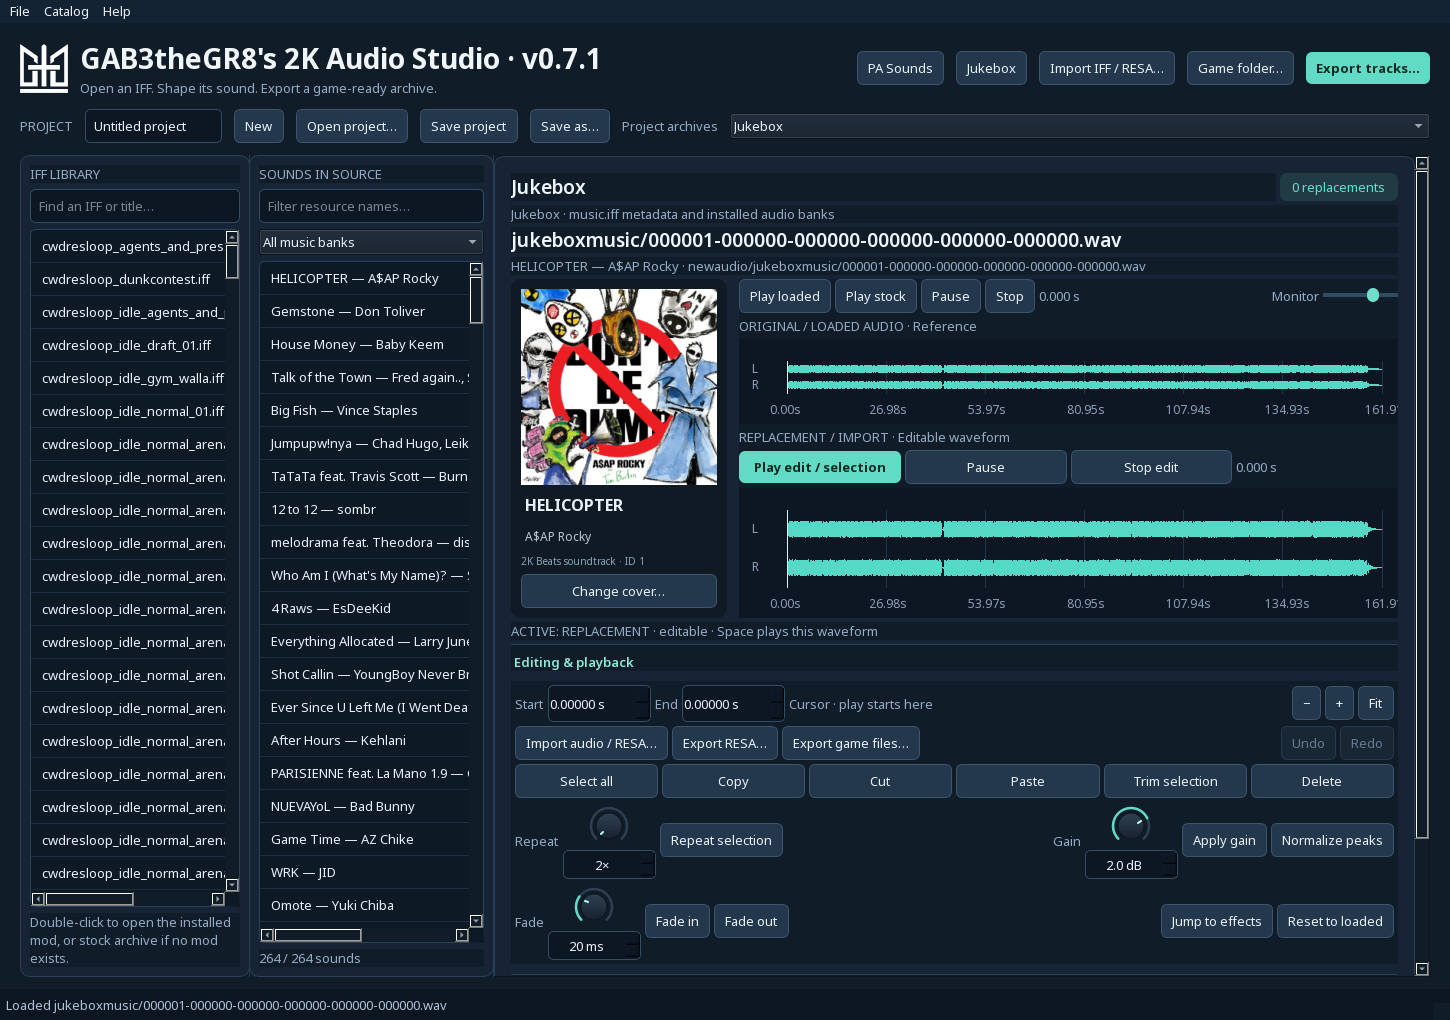
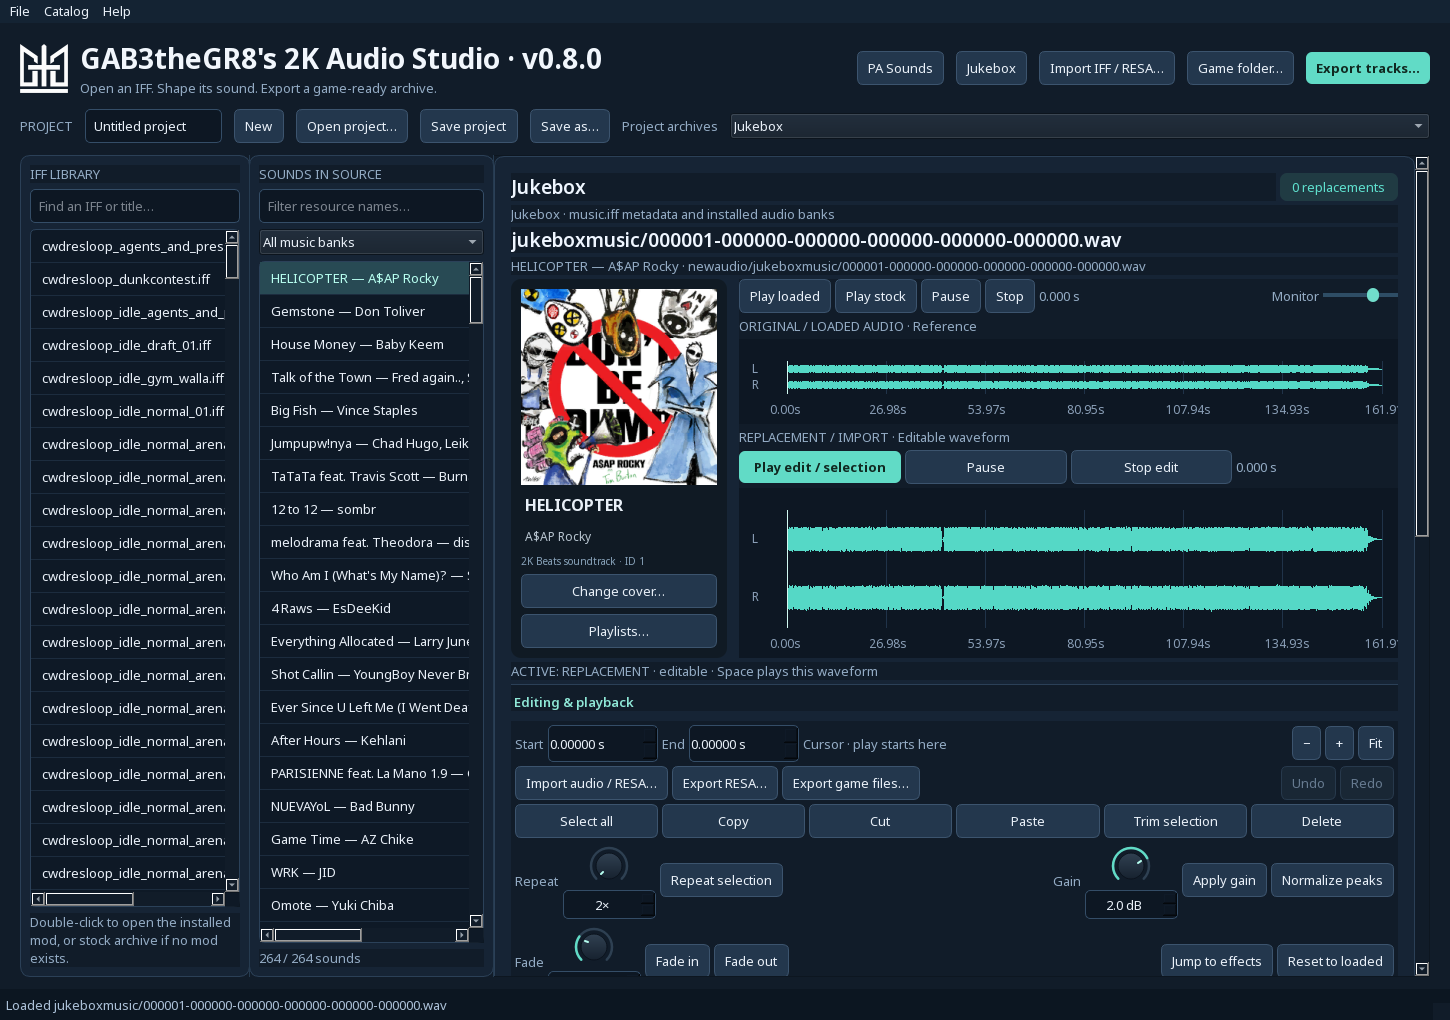
Publish Studio 0.8.0 soundtrack collection editor

Changed region(s): [[0.3414, 0.4863, 0.9621, 0.9725], [0.1552, 0.2431, 0.3414, 0.3039], [0.4034, 0.0304, 0.4345, 0.0608]]

diff --git a/index.html b/index.html
@@ -1,1 +1,1 @@
-<!doctype html><html lang="en"><head><meta charset="utf-8"><meta name="viewport" content="width=device-width,initial-scale=1"><title>2K Audio Studio — Windows audio editor</title><meta name="description" content="Open NBA 2K audio IFF files, audition original sounds, edit replacement waveforms and export a complete IFF."><style>*{box-sizing:border-box}html{color-scheme:dark}body{margin:0;background:#101b29;color:#edf5fc;font:17px/1.6 system-ui,sans-serif}main{max-width:1160px;margin:auto;padding:40px 26px 70px}nav{display:flex;gap:24px;align-items:center;margin-bottom:65px}a{color:#93e7d8}nav a{color:#b2c7dc;text-decoration:none;font-size:14px}.eyebrow{color:#68d9c4;letter-spacing:2px;font-size:12px;font-weight:700;text-transform:uppercase}h1{font-size:clamp(40px,6vw,70px);line-height:1.05;letter-spacing:-2px;margin:16px 0}h2{font-size:26px;line-height:1.2}p{color:#b8cbdc;max-width:760px}.lead{font-size:21px}.buttons{display:flex;gap:12px;flex-wrap:wrap;margin:28px 0 16px}.button{display:inline-block;background:#65dbc4;color:#0e2a23;text-decoration:none;padding:14px 22px;border-radius:8px;font-weight:750}.secondary{border:1px solid #43627d;background:#1d3348;color:#e8f4ff}.meta{font-size:13px;color:#96acc1}.preview{margin:45px 0 38px;border:1px solid #39536c;padding:8px;background:#182838;border-radius:15px;box-shadow:0 20px 65px #0005}.preview img{display:block;width:100%;height:auto;border-radius:9px}.grid{display:grid;grid-template-columns:repeat(3,1fr);gap:18px}.card{padding:24px;background:#17283a;border:1px solid #304a63;border-radius:12px}.card h2{font-size:20px;margin:0 0 9px}.card p{font-size:15px;margin:0}.workflow{margin-top:42px;max-width:860px}.workflow li{padding:6px 0;color:#c3d3e3}.note{margin-top:32px;padding:18px 22px;border-left:3px solid #65dbc4;background:#142638;font-size:15px}footer{border-top:1px solid #2e455d;margin-top:42px;padding-top:20px;font-size:13px;color:#9bb2c8}code{font-size:14px;color:#d3eee8}@media(max-width:760px){.grid{grid-template-columns:1fr}nav{margin-bottom:36px;flex-wrap:wrap}main{padding:26px 20px}.lead{font-size:18px}}</style></head><body><main><nav><a href="./">Studio</a><a href="https://github.com/GAB3theGR8/2K-Audio-Studio-Downloads/releases">Releases</a><a href="guide.txt">Guide</a></nav><img src="gtg-logo.png" alt="GTG" width="68" style="display:block;margin-bottom:20px"><div class="eyebrow">Windows desktop app · Preview v0.7.1</div><h1>GAB3theGR8’s<br>2K Audio Studio</h1><p class="lead">Hear the original. Shape the replacement.<br>Export an IFF or an individual RESA.</p><p>Open a 2K audio archive, import your own recording, and edit its waveform with trim, repeat, copy and paste. Keep multiple replacements together, then export the selected archive with its original filename.</p><div class="buttons"><a class="button" href="https://github.com/GAB3theGR8/2K-Audio-Studio-Downloads/releases/download/audio-studio-v0.7.1/GAB3theGR8.2K.Audio.Studio.v0.7.1.Setup.exe">Install for Windows</a><a class="button secondary" href="https://github.com/GAB3theGR8/2K-Audio-Studio-Downloads/releases/download/audio-studio-v0.7.1/GAB3theGR8.2K.Audio.Studio.v0.7.1.Windows.zip">Portable ZIP</a></div><p><strong>License key from Gabe required.</strong> Activation approves one Windows user on one computer. Connect for first activation; an approved installation can work offline for up to seven days. Audio stays on your PC.</p><div class="meta">Windows 10/11 · 64-bit · Per-user installer · No Python installation needed</div><div class="preview"><img src="preview.png" width="1450" height="1020" alt="Jukebox track card beside the original and replacement waveform transports"></div><div class="grid"><section class="card"><h2>See both waveforms</h2><p>See the original loaded waveform above your imported replacement. Normalize quiet and loud replacements to one shared −0.1 dBTP ceiling, independently of the loaded original. Edit below while keeping the original visible. Click either waveform to activate its cursor and selection. Space plays or pauses the active waveform; clicking another position during playback seeks. Each waveform also has independent transport controls.</p></section><section class="card"><h2>PA Sounds by team</h2><p>Browse 5,676 PA music clips by team, see recovered cue names and hashes, and export only edited native .wav files with their exact filenames.</p></section><section class="card"><h2>Export an IFF</h2><p>Save the complete archive, such as sfx_inside_001.iff, with your replacements and every untouched resource checked. Export RESA saves any selected sound from an IFF, PA library or standalone import. It includes current unapplied waveform edits, with the original filename suggested.</p></section></div><section class="workflow"><h2>Replace your Jukebox soundtrack</h2><p>Choose Jukebox to browse the main soundtrack and Park music from your installed game. See the selected track’s cover, title and artist beside both waveform transports. Import an MP3 to read its embedded tags and artwork, or edit those details yourself.</p><p>Export one or multiple tracks together. Every bundle includes the complete <code>music.iff</code>, preserving all other track records, audio in its exact <code>newaudio/jukeboxmusic/</code> or <code>newaudio/jukeboxmusic_park/</code> folder, and selected edited artwork at its original native path. Artwork exports need in-game confirmation. Stock recordings are read from your game and do not increase the download size.</p><p>For a single PA sound, <strong>Export game files</strong> writes <code>PA Export/newaudio/eventmusic/&lt;filename&gt;.wav</code>. Save Jukebox work in a project and reopen it with Studio 0.7.0 or later.</p></section><section class="workflow"><h2>Shape the room and speaker sound</h2><p>Scroll the right-hand editor to the EQ, room / space and dynamics sections beneath the waveforms for five-band EQ, room reverb, slap echo, stereo width, compression and speaker saturation. Drag teal knobs vertically and watch the live dry/processed waveform overlay update. Type exact values below each knob. Previewing leaves your audio unchanged until Apply. Start with indoor, outdoor, gym, arena, PA or distant-crowd presets. Compare dry and processed previews, then apply an undoable edit. Normalize to the shared peak ceiling is enabled by default.</p><div class="preview"><img src="effects.png" width="920" height="850" alt="Embedded teal rotary effects rack with five-band EQ, exact numeric values and live previews"></div></section><section class="workflow"><h2>One continuous editor</h2><p>Editing, EQ, reverb and dynamics are assembled beneath the waveforms. Scroll the right-hand panel to reach every section, with no effects tabs or separate effects window. Import standalone .RESA files or full IFF archives. Indexed menu sounds, including newbreakboard, retain rebuilt seek tables when edited. Older converter-made RESA sounds now receive a fresh native header on export, fixing the unsupported channel layout or codec error.</p><div class="preview"><img src="inline-effects.png" alt="A single scrolling editor containing waveform controls, EQ and reverb together"></div></section><section class="workflow"><h2>Updates built into Studio</h2><p>v0.7.1 fixes Windows access-denied errors caused by reusing an installer filename. Update downloads now use separate folders and retry temporary Windows file locks. If an older build is blocked, save and close Studio and run the installer above manually.</p><p>Studio checks for signed updates after launch and daily while open. Choose Update and restart when a new version is available. Save your project before restarting; activation and settings stay in place. You can also use Help → Check for updates, or disable background checks in the Updates menu. Users of earlier builds need to install this release once to move to the new public download host. Activation and saved projects carry over; future updates will use this location.</p><p>The PA catalog now has 533 additional team links: 2,721 recordings have candidate team associations, including 449 previously unassigned recordings. The complete library remains 5,676 native clips.</p></section><section class="workflow"><h2>From sound to game archive</h2><ol><li>Run the Windows installer once, then open <strong>GAB3theGR8’s 2K Audio Studio</strong> from your Start menu.</li><li>Choose <strong>Import IFF / RESA</strong> to open a standalone RESA sound or find audio inside a local archive, or set your game folder and double-click an archive in the library.</li><li>Select a sound and audition the loaded or stock version. For PA music, click <strong>PA Sounds</strong> and select a team.</li><li>Import a replacement, select a waveform section, and make your edits.</li><li>To export just the selected sound from any source, choose <strong>Export RESA</strong> beside the audio import button (or press <strong>Ctrl+Shift+E</strong>).</li><li>For IFFs, choose <strong>Apply to IFF</strong>, then <strong>Export IFF</strong>. For PA music, choose <strong>Apply PA sound</strong> and <strong>Export PA team</strong> to export only edited sounds into a team-named folder containing <code>newaudio/eventmusic/*.wav</code>.</li></ol><p>Use the visible <strong>New, Open project, Save project and Save as</strong> buttons to keep EuroLeague, NBA and other projects separate. Each <code>.2kaudio</code> project can hold multiple IFFs, pending replacements, the current unapplied waveform, selections, effect knobs and labels. Switch IFFs through <strong>Project archives</strong>. Older single-IFF projects remain readable. Existing catalog-label JSON files can be imported through the Catalog menu.</p></section><div class="note">All editing stays on your PC. PA .wav exports contain native 2K Opus data for game use; team associations are candidates and shared files may affect multiple teams. Exports use native Opus with no added one-second silence. Stock references require your installed NBA 2K27 files; mod-only variants may not have a stock counterpart. New exports still need an in-game test before installation.</div><footer><a href="https://github.com/GAB3theGR8/2K-Audio-Studio-Downloads/releases/tag/audio-studio-v0.7.1">Release files & checksums</a> · <a href="guide.txt">Full guide</a> · <a href="packaged-validation.json">Packaged-app checks</a> · <a href="workspace-validation.json">Waveform &amp; project checks</a></footer></main></body></html>
+<!doctype html><html lang="en"><head><meta charset="utf-8"><meta name="viewport" content="width=device-width,initial-scale=1"><title>2K Audio Studio — Windows audio editor</title><meta name="description" content="Open NBA 2K audio IFF files, audition original sounds, edit replacement waveforms and export a complete IFF."><style>*{box-sizing:border-box}html{color-scheme:dark}body{margin:0;background:#101b29;color:#edf5fc;font:17px/1.6 system-ui,sans-serif}main{max-width:1160px;margin:auto;padding:40px 26px 70px}nav{display:flex;gap:24px;align-items:center;margin-bottom:65px}a{color:#93e7d8}nav a{color:#b2c7dc;text-decoration:none;font-size:14px}.eyebrow{color:#68d9c4;letter-spacing:2px;font-size:12px;font-weight:700;text-transform:uppercase}h1{font-size:clamp(40px,6vw,70px);line-height:1.05;letter-spacing:-2px;margin:16px 0}h2{font-size:26px;line-height:1.2}p{color:#b8cbdc;max-width:760px}.lead{font-size:21px}.buttons{display:flex;gap:12px;flex-wrap:wrap;margin:28px 0 16px}.button{display:inline-block;background:#65dbc4;color:#0e2a23;text-decoration:none;padding:14px 22px;border-radius:8px;font-weight:750}.secondary{border:1px solid #43627d;background:#1d3348;color:#e8f4ff}.meta{font-size:13px;color:#96acc1}.preview{margin:45px 0 38px;border:1px solid #39536c;padding:8px;background:#182838;border-radius:15px;box-shadow:0 20px 65px #0005}.preview img{display:block;width:100%;height:auto;border-radius:9px}.grid{display:grid;grid-template-columns:repeat(3,1fr);gap:18px}.card{padding:24px;background:#17283a;border:1px solid #304a63;border-radius:12px}.card h2{font-size:20px;margin:0 0 9px}.card p{font-size:15px;margin:0}.workflow{margin-top:42px;max-width:860px}.workflow li{padding:6px 0;color:#c3d3e3}.note{margin-top:32px;padding:18px 22px;border-left:3px solid #65dbc4;background:#142638;font-size:15px}footer{border-top:1px solid #2e455d;margin-top:42px;padding-top:20px;font-size:13px;color:#9bb2c8}code{font-size:14px;color:#d3eee8}@media(max-width:760px){.grid{grid-template-columns:1fr}nav{margin-bottom:36px;flex-wrap:wrap}main{padding:26px 20px}.lead{font-size:18px}}</style></head><body><main><nav><a href="./">Studio</a><a href="https://github.com/GAB3theGR8/2K-Audio-Studio-Downloads/releases">Releases</a><a href="guide.txt">Guide</a></nav><img src="gtg-logo.png" alt="GTG" width="68" style="display:block;margin-bottom:20px"><div class="eyebrow">Windows desktop app · Preview v0.8.0</div><h1>GAB3theGR8’s<br>2K Audio Studio</h1><p class="lead">Hear the original. Shape the replacement.<br>Export an IFF or an individual RESA.</p><p>Open a 2K audio archive, import your own recording, and edit its waveform with trim, repeat, copy and paste. Keep multiple replacements together, then export the selected archive with its original filename.</p><div class="buttons"><a class="button" href="https://github.com/GAB3theGR8/2K-Audio-Studio-Downloads/releases/download/audio-studio-v0.8.0/GAB3theGR8.2K.Audio.Studio.v0.8.0.Setup.exe">Install for Windows</a><a class="button secondary" href="https://github.com/GAB3theGR8/2K-Audio-Studio-Downloads/releases/download/audio-studio-v0.8.0/GAB3theGR8.2K.Audio.Studio.v0.8.0.Windows.zip">Portable ZIP</a></div><p><strong>License key from Gabe required.</strong> Activation approves one Windows user on one computer. Connect for first activation; an approved installation can work offline for up to seven days. Audio stays on your PC.</p><div class="meta">Windows 10/11 · 64-bit · Per-user installer · No Python installation needed</div><div class="preview"><img src="preview.png" width="1450" height="1020" alt="Jukebox track card beside the original and replacement waveform transports"></div><div class="grid"><section class="card"><h2>See both waveforms</h2><p>See the original loaded waveform above your imported replacement. Normalize quiet and loud replacements to one shared −0.1 dBTP ceiling, independently of the loaded original. Edit below while keeping the original visible. Click either waveform to activate its cursor and selection. Space plays or pauses the active waveform; clicking another position during playback seeks. Each waveform also has independent transport controls.</p></section><section class="card"><h2>PA Sounds by team</h2><p>Browse 5,676 PA music clips by team, see recovered cue names and hashes, and export only edited native .wav files with their exact filenames.</p></section><section class="card"><h2>Export an IFF</h2><p>Save the complete archive, such as sfx_inside_001.iff, with your replacements and every untouched resource checked. Export RESA saves any selected sound from an IFF, PA library or standalone import. It includes current unapplied waveform edits, with the original filename suggested.</p></section></div><section class="workflow"><h2>Replace your Jukebox soundtrack</h2><p>Choose Jukebox to browse the main soundtrack and Park music from your installed game. See the selected track’s cover, title and artist beside both waveform transports. Import an MP3 to read its embedded tags and artwork, or edit those details yourself.</p><p>Export one or multiple tracks together. Every bundle includes the complete <code>music.iff</code>, preserving all other track records, audio in its exact <code>newaudio/jukeboxmusic/</code> or <code>newaudio/jukeboxmusic_park/</code> folder, and selected edited artwork at its original native path. Artwork exports need in-game confirmation. Stock recordings are read from your game and do not increase the download size.</p><p>For a single PA sound, <strong>Export game files</strong> writes <code>PA Export/newaudio/eventmusic/&lt;filename&gt;.wav</code>. Save Jukebox work in a project and reopen it with Studio 0.8.0 or later.</p></section><section class="workflow"><h2>Arrange soundtrack collections</h2><p>In Jukebox, click <strong>Playlists</strong> beneath the cover. See each collection’s song count, move existing songs between the two soundtrack collections, and move tracks up or down within a collection. Audio IDs and season availability stay unchanged. Export the complete <code>music.iff</code> without re-exporting recordings, or bundle it with selected audio.</p><p>The game’s exact collection display names still need confirmation, so Studio uses neutral labels. Removing a song moves it to the other collection; it remains in the total soundtrack catalog. This changes collection sizes within the existing catalog, rather than adding new audio slots. Playlist behavior needs an in-game test.</p><p>World/Park playlist arrays are extracted for reference and remain read-only. Personal MyPlaylist is stored in the game profile and is managed in game. Studio does not modify executable files or profiles. New Jukebox projects require Studio 0.8.0; older projects remain readable.</p><div class="preview"><img src="playlist-preview.png" alt="Soundtrack collection members, available songs, counts and membership/order controls"></div></section><section class="workflow"><h2>Shape the room and speaker sound</h2><p>Scroll the right-hand editor to the EQ, room / space and dynamics sections beneath the waveforms for five-band EQ, room reverb, slap echo, stereo width, compression and speaker saturation. Drag teal knobs vertically and watch the live dry/processed waveform overlay update. Type exact values below each knob. Previewing leaves your audio unchanged until Apply. Start with indoor, outdoor, gym, arena, PA or distant-crowd presets. Compare dry and processed previews, then apply an undoable edit. Normalize to the shared peak ceiling is enabled by default.</p><div class="preview"><img src="effects.png" width="920" height="850" alt="Embedded teal rotary effects rack with five-band EQ, exact numeric values and live previews"></div></section><section class="workflow"><h2>One continuous editor</h2><p>Editing, EQ, reverb and dynamics are assembled beneath the waveforms. Scroll the right-hand panel to reach every section, with no effects tabs or separate effects window. Import standalone .RESA files or full IFF archives. Indexed menu sounds, including newbreakboard, retain rebuilt seek tables when edited. Older converter-made RESA sounds now receive a fresh native header on export, fixing the unsupported channel layout or codec error.</p><div class="preview"><img src="inline-effects.png" alt="A single scrolling editor containing waveform controls, EQ and reverb together"></div></section><section class="workflow"><h2>Updates built into Studio</h2><p>v0.8.0 fixes Windows access-denied errors caused by reusing an installer filename. Update downloads now use separate folders and retry temporary Windows file locks. If an older build is blocked, save and close Studio and run the installer above manually.</p><p>Studio checks for signed updates after launch and daily while open. Choose Update and restart when a new version is available. Save your project before restarting; activation and settings stay in place. You can also use Help → Check for updates, or disable background checks in the Updates menu. Users of earlier builds need to install this release once to move to the new public download host. Activation and saved projects carry over; future updates will use this location.</p><p>The PA catalog now has 533 additional team links: 2,721 recordings have candidate team associations, including 449 previously unassigned recordings. The complete library remains 5,676 native clips.</p></section><section class="workflow"><h2>From sound to game archive</h2><ol><li>Run the Windows installer once, then open <strong>GAB3theGR8’s 2K Audio Studio</strong> from your Start menu.</li><li>Choose <strong>Import IFF / RESA</strong> to open a standalone RESA sound or find audio inside a local archive, or set your game folder and double-click an archive in the library.</li><li>Select a sound and audition the loaded or stock version. For PA music, click <strong>PA Sounds</strong> and select a team.</li><li>Import a replacement, select a waveform section, and make your edits.</li><li>To export just the selected sound from any source, choose <strong>Export RESA</strong> beside the audio import button (or press <strong>Ctrl+Shift+E</strong>).</li><li>For IFFs, choose <strong>Apply to IFF</strong>, then <strong>Export IFF</strong>. For PA music, choose <strong>Apply PA sound</strong> and <strong>Export PA team</strong> to export only edited sounds into a team-named folder containing <code>newaudio/eventmusic/*.wav</code>.</li></ol><p>Use the visible <strong>New, Open project, Save project and Save as</strong> buttons to keep EuroLeague, NBA and other projects separate. Each <code>.2kaudio</code> project can hold multiple IFFs, pending replacements, the current unapplied waveform, selections, effect knobs and labels. Switch IFFs through <strong>Project archives</strong>. Older single-IFF projects remain readable. Existing catalog-label JSON files can be imported through the Catalog menu.</p></section><div class="note">All editing stays on your PC. PA .wav exports contain native 2K Opus data for game use; team associations are candidates and shared files may affect multiple teams. Exports use native Opus with no added one-second silence. Stock references require your installed NBA 2K27 files; mod-only variants may not have a stock counterpart. New exports still need an in-game test before installation.</div><footer><a href="https://github.com/GAB3theGR8/2K-Audio-Studio-Downloads/releases/tag/audio-studio-v0.8.0">Release files & checksums</a> · <a href="guide.txt">Full guide</a> · <a href="packaged-validation.json">Packaged-app checks</a> · <a href="workspace-validation.json">Waveform &amp; project checks</a> · <a href="playlist-validation.json">Playlist checks</a></footer></main></body></html>
